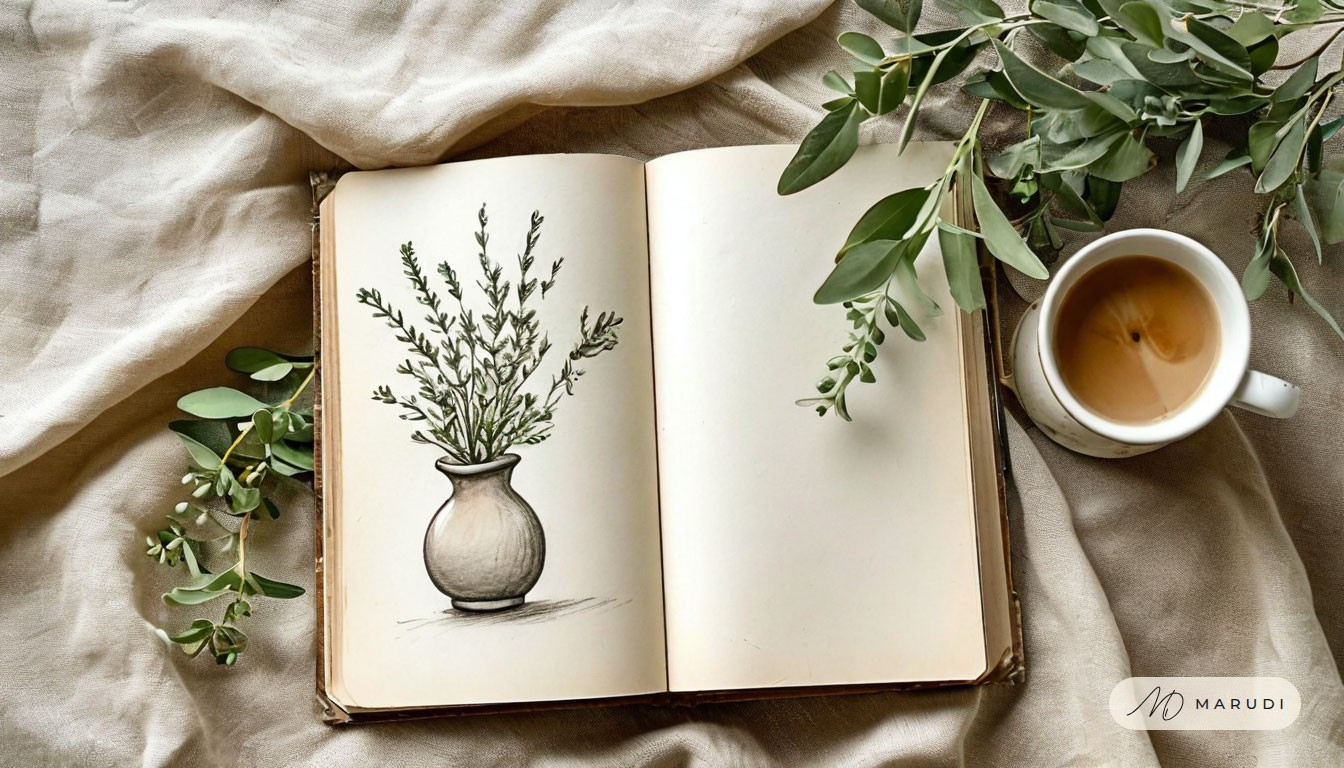
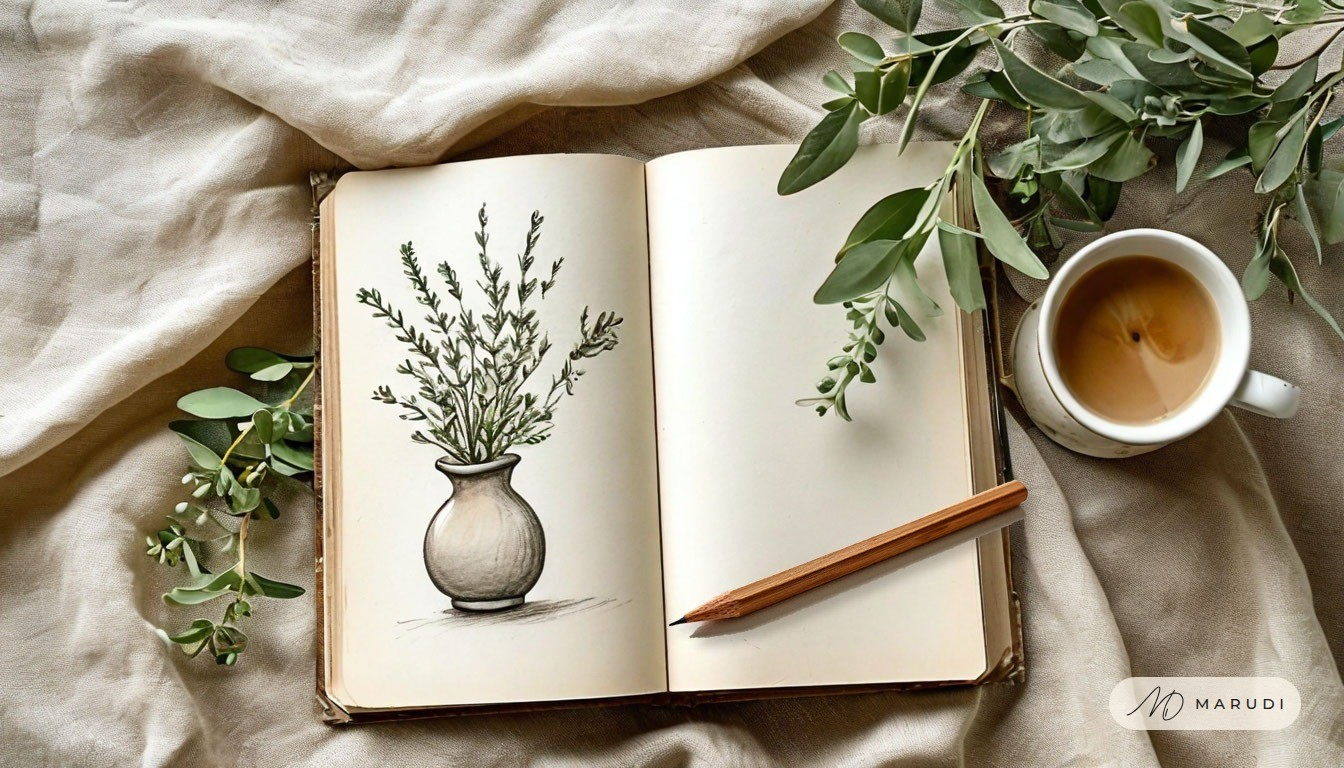
Обложка «процесс»: карандаш на странице скетчбука
Claude-Session: https://claude.ai/code/session_01H11W7LBLUBKKWjyjBXn1v7

Changed region(s): [[0.5, 0.625, 0.7812, 0.8438]]

diff --git a/CLAUDE.md b/CLAUDE.md
@@ -96,6 +96,8 @@
   Октябрь: 04, 05, 11, 13 сделаны так (у 13 экран ноутбука давал «текст» — описали абстракцию).
   Смотреть мелочи вблизи (crop): 03.10 Мария заметила, что ветки на наброске висели за вазой,
   а не росли из горлышка — я пропустила. «Без веток» YandexART игнорирует — выбирать из вариантов.
+  Недостающий предмет можно добавить монтажом: нарисовать его отдельно на белом фоне, вырезать
+  по насыщенности (PIL+scipy), положить с мягкой тенью (так 03.10 добавлен карандаш на обложку 05).
 - Поле `art` в posts.json (рисует бот при публикации) — запасной путь; у атмосферных постов было (04, 05, 11, 13); посты с реальными работами
   Марии (02, 07, 09) — с готовыми обложками (02.10 сложная сцена с 3 товарами вышла плохо).
   Формула промта (от Марии, так работает её канал на Дзене): `[предмет + действие + где + ракурс],
